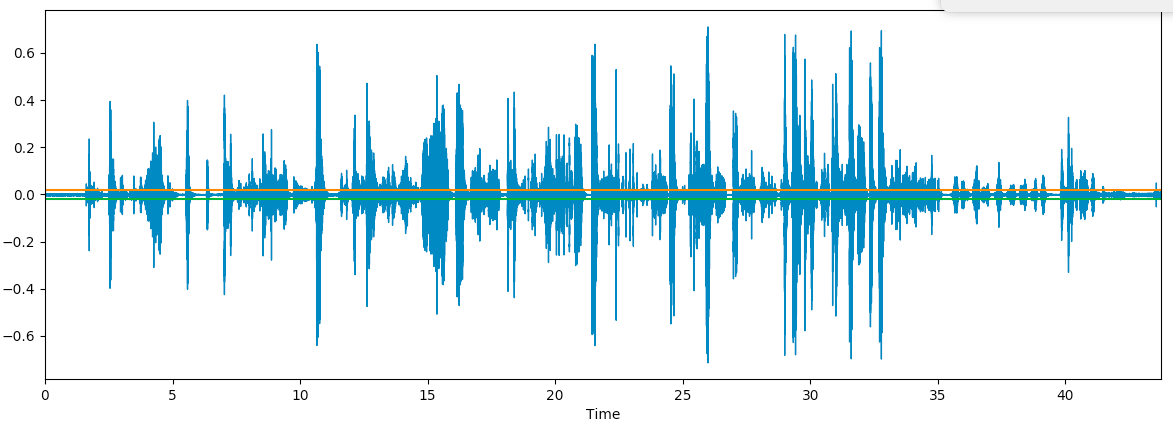
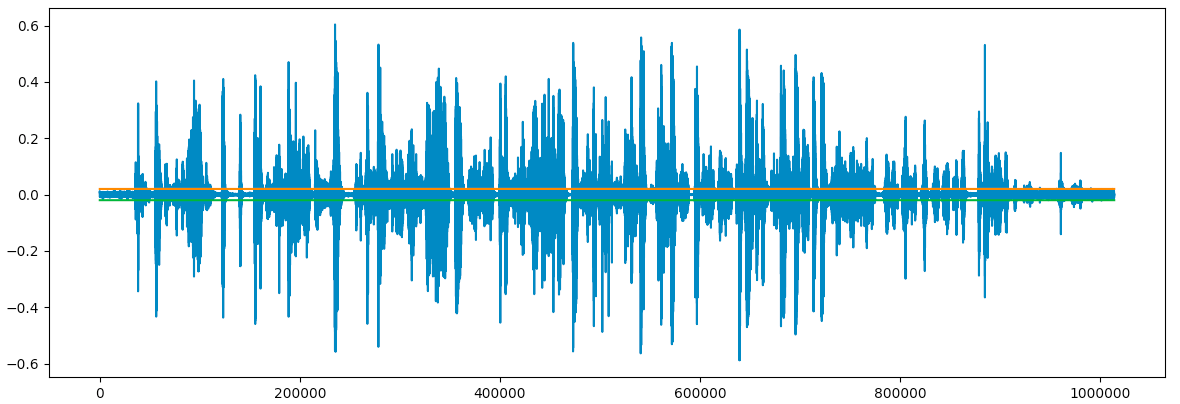
Got remix edit

diff --git a/_posts/2017-7-24-got-remix.md b/_posts/2017-7-24-got-remix.md
@@ -6,14 +6,14 @@ tags:
 comments: true
 ---
 
-<iframe width="420" height="315" src="http://www.youtube.com/embed/hI4Ed9ejEuU" frameborder="0" allowfullscreen></iframe>
+<iframe width="420" height="315" src="http://www.youtube.com/embed/azU3I1rwNv8" frameborder="0" allowfullscreen></iframe>
 
-As a fan of `Game of Thrones`, I couldn't wait for it to return for a 7th season. Watching the season premier, I greatly enjoyed that great scene of Sam doing his chores at the Citadel.
+As a fan of Game of Thrones, I couldn't wait for it to return for a 7th season. Watching the season premier, I greatly enjoyed that iconic scene of Sam doing his chores at the Citadel.
 
 I enjoyed it so much that I wanted to see more of it... _much more of it_.
 
-In this post we'll take the short video compilation of sam cleaning the Citadel,
-we will split it to multiple sub clips and create a video of sam cleaning the Citadel using a random mix of those sub clips.
+In this post we'll take the short video compilation of Sam cleaning the Citadel,
+we will split it to multiple sub clips and create a video of Sam cleaning the Citadel using a random mix of those sub clips.
 
 Now, it would have taken me about five minutes to do all of this manually by splitting the video and then combining all the parts using some video editing program. But why would I waste five minutes when I can spend a whole weekend doing the same thing with Python?
 
@@ -52,12 +52,19 @@ progressbar
 We will use the `librosa` package to analyze the audio from the video and find silent frames in it.
 After that we will use those frames to split the video and combine them randomly using the `moviepy` package.
 
+You may also need to install `ffmpeg` on your computer for processing the video files, since it's needed for `MoviePy` to run.
+On OSX, you can install `ffmpeg` by running the following command line:
+
+{% highlight bash %}
+brew install ffmpeg
+{% endhighlight %}
+
 ## Processing the audio frames from the video
 
 First we'll load the audio from our video file:
 
 {% highlight python %}
-video_file_path = "resources/short_got.mp4"
+video_file_path = "resources/sam_citadel.mp4"
 audio_data, sr = librosa.load(video_file_path)
 {% endhighlight %}
 
@@ -73,7 +80,7 @@ import librosa
 import librosa.display
 import matplotlib.pyplot as plt
 
-video_file_path = "resources/short_got.mp4"
+video_file_path = "resources/sam_citadel.mp4"
 audio_data, sr = librosa.load(video_file_path)
 librosa.display.waveplot(audio_data)
 plt.show()
@@ -104,7 +111,7 @@ import librosa.display
 import matplotlib.pyplot as plt
 
 # Load audio from file
-video_file_path = "resources/short_got.mp4"
+video_file_path = "resources/sam_citadel.mp4"
 audio_data, sr = librosa.load(video_file_path)
 
 # Display wave plot
@@ -119,6 +126,14 @@ plt.show()
 {% endhighlight %}
 
 ![waveplot]({{ site.baseurl }}/images/got_remix/wave_plot_limits.png)
+
+We can zoom into one of the parts in the audio and check our “boundaries of silence”:
+
+![waveplot]({{ site.baseurl }}/images/got_remix/wave_plot_limits_pre_zoom.png)
+
+We can see that the boundaries we created contain the "silent" part of the audio. Seems like we might have been able to set a lower limit:
+
+![waveplot]({{ site.baseurl }}/images/got_remix/wave_plot_limits_zoom.png)
 
 Once we set our limits, we can analyze the audio and try to find "silences".
 We don't want to do this for each point since we have 22,050 of them per second, so we will define a `frame` as a small chunk of the audio file. We do that by setting a frame size in seconds and then iterating over the audio data, frame by frame, and checking for each frame if it has a value that exceeds our limits. If all values in the frame are between the limits, we can say the frame is "silent".
@@ -162,43 +177,53 @@ for frame_num in range(int(num_of_frames)):
 
 What we've done here is find the indexes of "silent" frames in the audio. 
 
-In this case the frame size is set to 0.1s, meaning that all data points in a 0.1s chunk of audio are considered a frame. This means that each frame contains `0.1 * sample rate (22050)` (2,250) data samples. This frame size worked well for this program, since the sub clips were to be longer than that length. You can play around with this size and see how it changes the result.
+In this case the frame size is set to 0.1s, meaning that all data points in a 0.1s chunk of audio are considered a frame. This means that each frame contains `0.1 * sample rate (22050)` (2,250) data samples. This frame size worked well for this program, since we expect the sub clips to be longer than that. You can play around with this size and see how it changes the result.
 
-For each frame, if the absolute maximum value of the frame is below our limit (`0.02`) we mark it as a "silent" frame and collect it in our `silent frames` list.
+For each frame, if the maximum absolute value of the frame is below our limit (`0.02`) we mark it as a "silent" frame and collect it in our `silent_frames` list.
 
 Once we collected all indexes of the "silent" frames, we can plot them on our audio wave:
 
 ![waveplot]({{ site.baseurl }}/images/got_remix/wave_plot_silent_frames.png)
 
-Looks like we marked a lot of sections as "silent"! We can aggregate consecutive "silent" frames, and plot the start of each "silent" sequence. 
-
-Let's take another look at the cleaner plot:
+Looks like we marked a lot of sections as "silent"! We can aggregate consecutive "silent" frames, and plot the start of each "silent" sequence:
 
 {% highlight python %}
 # Aggregate the frames into sections of silent frames
-aggregated_frames = [silent_frames_indexes[0]]
-for index, frame_num in enumerate(silent_frames_indexes[1:]):
-    if frame_num - silent_frames_indexes[index] > FRAME_MIN_SIZE:
-        aggregated_frames.append(frame_num)
+aggregated_frames = [(silent_frames[0], 0)]
+    for index, frame_num in enumerate(silent_frames[1:]):
+        # Check if we have a large enough frame
+        if frame_num - silent_frames[index] > FRAME_MIN_SIZE:
+            # Find the local minimum in the frame and set it as the frame start / end location
+            start = int(frame_num * frame_len)
+            stop = int((frame_num * frame_len) + (FRAME_DURATION * FRAME_MIN_SIZE * sr))
+            frame = map(abs, audio_data[start:stop])
+            min_val_index = frame.index(min(frame)) + (frame_num * frame_len)
+            aggregated_frames.append((frame_num, min_val_index))
 {% endhighlight %}
+
+In this code section, we aggregated the sections of silent frames in order to create longer frames. These frames will be used later for splitting our video into sub clips, then mixing them together for our new Sam in the Citadel video mix. As we want to make sure that our frames are long enough, we also check that our aggregated frames are more than 3 frames long. This is set using the `FRAME_MIN_SIZE` value.
+
+We also added a functionality that searches for the lowest local minimum in our audio. We need this feature so that when we cut our audio/video into sub clips we will end each sub clip at the most silent point that we can find in our "silent" frames.
+
+Let's take another look at the cleaner plot:
 
 ![waveplot]({{ site.baseurl }}/images/got_remix/wave_plot_aggregated_silent_frames.png)
 
-We can now use the beginning of each "silent" sequence as the beginning of each sub clip in the video. We will split the video accordingly, meaning we need to save a list of the start of each "silent" sequence and the end of the desired frame. For finding the end of the frame we will use the sample just before the start of the next "silent" sequence.
+We can now use the most silent point of each "silent" sequence as the beginning of each sub clip in the video. We will split the video accordingly, meaning we need to save a list of the start of each "silent" sequence and the end of the desired frame. For finding the end of the frame we will use the sample just before the start of the next "silent" sequence.
 
 We will create a list of audio frames, each with a start and end index:
 
 {% highlight python %}
 # Zip the frames together so we'll have a complete list of frames
 frames = zip(
-    [int(frame*frame_len) for frame in aggregated_frames], 
-    [int(frame*frame_len) - 1 for frame in aggregated_frames][1:]
+    [frame[1] for frame in aggregated_frames], 
+    [frame[1] - 1 for frame in aggregated_frames][1:]
 )
 
 # Check if we calculated frames until the end of the file.
 # If not, add another frame until the end of the file.
 if frames[-1][1] < len(audio_data):
-   frames.append((frames[-1][1] + 1, len(audio_data))) 
+    frames[-1] = (frames[-1][0], len(audio_data))
 {% endhighlight %}
 
 That's it, we have everything we need in order to create our new (longer and better!) video of Sam's Citadel chores.
@@ -216,7 +241,7 @@ split the video using those timestamps and combine them randomly into a new vide
 
 ![hot_py]({{ site.baseurl }}/images/got_remix/hot_py.jpg)
 
-First, lets load the movie using the `moviepy` module:
+First, let's load the movie using the `moviepy` module:
 
 {% highlight python %}
 from moviepy.video.io.VideoFileClip import VideoFileClip
@@ -224,7 +249,7 @@ from moviepy.video.io.VideoFileClip import VideoFileClip
 video_clip = VideoFileClip(video_file_path)
 {% endhighlight %}
 
-Next, we'll convert each audio frame's start and end index to a video timestamp (MoviePy requires timestamps in seconds). We can convert sample index to timestamp by dividing the index by the sample rate: the timestamp for the 1000th sample will be `1000 / 22050`, ~0.0453.
+Next, we'll convert each audio frame's start and end index to a video timestamp (MoviePy requires timestamps in seconds). We can convert sample indexes to timestamps by dividing the index by the sample rate. For example, the timestamp for the 1000th sample will be `1000 / 22050`, ~0.0453.
 
 We will then use these timestamps to cut the video and save each sub clip:
 
